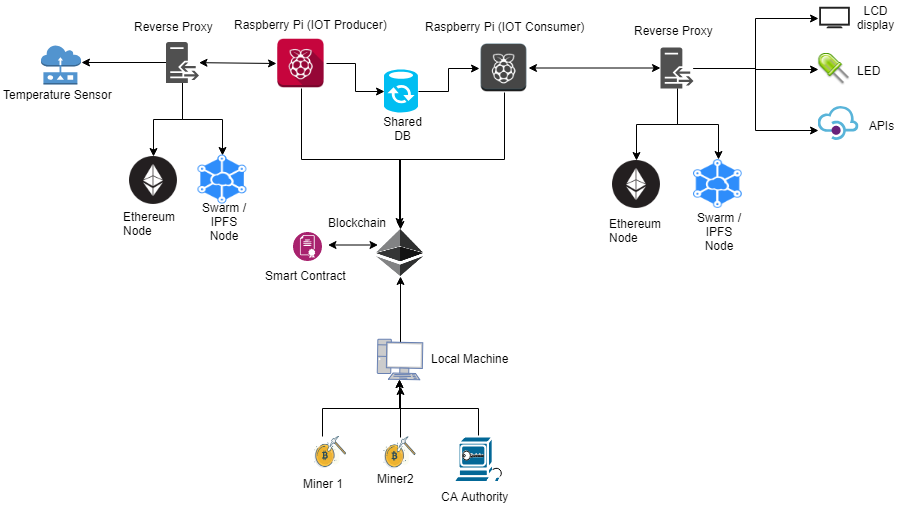
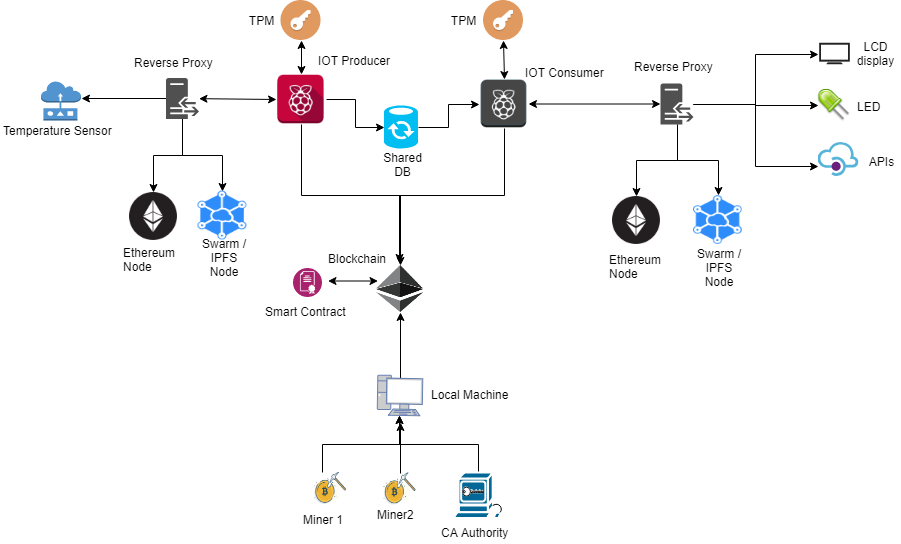
FINAL DRAFT V1

diff --git a/unlv-thesis.tex b/unlv-thesis.tex
@@ -126,7 +126,7 @@ In this thesis, we propose a method to collect sensor data from IoT devices and 
 %%% Here goes the acknowledgements if you have any - if none then delete or
 %%% comment out completely
 \begin{thesisacknowledgments}
-I would like to thank my advisor, Dr. Yoohwan Kim, for helping me identify areas of research and picking a Thesis topic that I could identify with. His continuous support and mentorship helped me implement this thesis and write a report that accurately covered everything I have worked on throughout my Master's program.
+I would like to thank my advisor, Dr. Yoohwan Kim, for helping me identify areas of research and picking a Thesis topic that I could identify with. His continuous support and mentorship helped me implement this thesis and write a report that accurately covered everything I have worked on throughout my Master's program. Over the course of this thesis, I have studied topics in IoT, Blockchains, Distributed Systems and cyber-security and I am grateful to have a mentor whose expertise encompasses all these domains and more.
 
 I would also like to acknowledge  Dr. Ju-Yeon Jo, Dr. Fatma Nasoz and Dr. SJ Kim for their warm support and for being part of my thesis committee. I am thankful to Dr. Ajoy Datta for helping me out whenever I required his assistance. I would also like to thank all my professors for imparting their knowledge through various courses in the fields of Machine Learning, Big Data, Databases, Blockchains and Algorithms.
 
@@ -799,7 +799,6 @@ The TPM used, Zymbit 4i, provides a public-private ECDSA key pair for signature 
 The storage medium (SD card is this case) is encrypted fully using LUKS \cite{cryptoeprint:2016:274} (Linux Unified Key Setup) and dm-crypt. The dm-crypt implementation uses a single Master key to encrypt/decrypt the file system contents shared by several users/ services. Moreover, this single master key needs to be changed frequently to avoid being cracked. This might not always be feasible. LUKS uses a hierarchical key management system to simplify managing keys for each service/user, providing them to services and revoking them when required. However, all these keys are encrypted using the single master key which must be stored on the device storage. Since the SD card can be removed and accessed easily, the master key is at risk of being stolen. The Hardware Security Module/ TPM overcomes this issue by locking the LUKS Master key using its private key stored within the hardware.
 
 \chapter{Proposed System} \label{chapter:proposed_system}
-
 \section{System Architecture} \label{ss:construct_architecture}
 The proposed system explained in \ref{fig:impldiagram_architechture} consists of number of applications running on a Local machine (miner nodes) whose sole purpose is to validate the transactions called by the set methods in the smart contract. One of the raspberry pis, called IoT Producer will be used to gather readings. The IoT producer will be running geth in light mode, swarm and ipfs applications to send data to rest of the network. The other raspberry pi, called IoT consumer will be used to get the readings from the network and use them to send out the data to other end-points such as APIs or LCD displays. The connections between the Producer and Consumer isn't rigid and each connect to the Ethereum, Swarm or IPFS network.
 
@@ -917,17 +916,39 @@ Private PKI are generally used to secure communications between local devices. W
 \subsubsection{Reverse Proxy}
 A reverse proxy is an intermediate server that intercepts all or most requests depending on their usage. These intercepted requests are then routed to the correct backend server. In our case, we run a reverse proxy on the IoT Consumer which uses certificates signed by our private PKI and allows HTTPS communication between our LCD node and the IoT Consumer. In this way, the LCD node is allowed to connect to the geth, swarm and ipfs endpoints and receive data securely. Nginx is a popular server option and can be configured to be used as a reverse proxy.
 
-\subsection{Hardware Security}
+\subsection{Hardware Security with TPM}
 A Trusted Privacy Module device, Zymbit 4i is used as a Hardware Security mechanism for the raspberry pi. It occupies the first 10 GPIO pins, including one 3.3V pin, 2 5V pins, 2 Ground pins, GP104 and the I2C bus. Before installing it, the I2C interfacing option is first activated on the Raspberry Pi. Finally, the required software modules needed for accessing the hardware keys stored on the TPM device are installed. Once this setup is completed, the root file system is encrypted using LUKS and dm-crypt using the private hardware key stored on the TPM.
+
+The first step in setting up the TPM is to pair \cite{TPMSetup} it with the Raspberry Pi. This pairing process uses a couple of unique features from both the host raspberry pi and the TPM and generates a unique Device ID that binds the TPM to the host. A linux systemd service \textbf{zkifc} runs on the host raspberry pi when properly paired. It is used to provide access to the keys stored on the TPM via I2C interface and all communications between the TPM and I2C are encrypted.
+
+Among other features, TPMs generally provide two important features that were extremely useful for this thesis.
+\subsection{Root File encryption with LUKS}
+The Root File System is not very secure in a Raspberry Pi system. The SD card can be easily imaged and sensitive data like shared keys can be stolen very easily. A viable solution is to encrypt the entire Root File System using Linux Unified Key Setup and dm-crypt.
+
+Figure \ref{fig:normal_fs} shows how easily the SD card can be read and senstive data can be stolen.
+
+\begin{figure}
+	\centering
+	\includegraphics[scale=1]{images/3_NormalFS.png}
+	\caption{Unencrypted File System}
+	\label{fig:normal_fs}
+\end{figure}
 
 \subsubsection{Boot Sequence of normal LUKS}
 \begin{enumerate}
-	\item Kernel initializes initramfs - A single cpio archive loaded into main memory during startup
+	\item Kernel initializes initramfs - A single archive loaded into main memory during startup
 	\item initramfs presents decryption key to LUKS
 	\item LUKS decrypts the root file system
 \end{enumerate}
 
-There are a couple of issues with the above procedure when Raspberry Pi is involved. First, there is no dedicated key-ring for storing cryptographic keys available in other Operating Systems. Secondly, the decryption key should not be stored in plain text on the removable SD card. To fix these issues, a TPM is used with LUKS for a more secure boot sequence.
+There are a couple of issues with the above procedure when Raspberry Pi is involved. First, there is no dedicated key-ring for storing cryptographic keys available in other Operating Systems. Secondly, the decryption key should not be stored in plain text on the removable SD card. To fix these issues, a TPM is used with LUKS \cite{TPMLUKS} for a more secure boot sequence. The Figure \ref{fig:encrypted_fs} shows how an encrypted file system works.
+
+\begin{figure}
+	\centering
+	\includegraphics[scale=0.5]{images/2_LUKSEncryptedFormat.png}
+	\caption{Encrypted File System with LUKS}
+	\label{fig:encrypted_fs}
+\end{figure}
 
 \subsubsection{Boot Sequence of LUKS with TPM}
 \begin{enumerate}
@@ -937,7 +958,16 @@ There are a couple of issues with the above procedure when Raspberry Pi is invol
 	\item Unlocked LUKS key is used to decrypt the root file system
 \end{enumerate}
 
+\subsubsection{Data Locker for keys}
+This feature allowed us to store all shared secret keys in encrypted format. The secret keys transferred over to the raspberry pis (process is explained in \ref{transfer_symm_keys}) are encrypted using the AES key hard coded to the TPM hardware. Zymbit 4i provides a python module called zymkey which accesses the TPM's AES key and encrypts/ decrypts the stored secret key and locks it to the raspberry pi. The locked key is then used for transferring encrypted data over the network.
 
+The TPM's AES key is used to encrypt the actual AES secret key and is explained in \ref{eq:encryptionofKeyZymbit}
+
+\begin{equation} \label{eq:encryptionofKeyZymbit}
+    zymbitProtectedKey =  E(K_{zymkey}, K_{aesSecret})
+\end{equation}
+
+We ensure that we never store the keys can never be accessed by unauthorized users even if the raspberry pi is stolen and the encrypted root file is successfully decrypted.
 
 \subsection{Software Security}
 The raspberry pi can be secured using a number of simple methods, each having an equally significant impact on improving the overall security of the device.
@@ -951,7 +981,7 @@ To further increase security, a new user is added and the default \textbf{pi} is
 \subsubsection{Installing Firewall}
 There is no firewall installed by default on the raspberry pi. Uncomplicated Firewall (ufw) can be setup very easily in any linux based OS and the raspbian OS is no different. All ports except for those we need such those for making remote procedure calls, networking between geth, swarm or ipfs nodes are selectively enabled.
 
-\subsubsection{Transferring Symmetric keys}
+\subsubsection{Transferring Symmetric keys} \label{transfer_symm_keys}
 Symmetric (Secret) keys must never be transferred in plain-text format over network or stored in the file system in plain text. The below sequence of steps are used to transfer AES keys over a network and lock them to the raspberry pi.
 
 \begin{enumerate}
@@ -1315,7 +1345,10 @@ Since python3 is used extensively, a couple of third party python modules are us
 		$Storage$ & web3 & To access smart contract functions or get balances \\ \hline
 		$Storage$ & ipfsapi & To store and retrieve data from IPFS \\ \hline
 		$IoT$ & AdafruitDHT & Get temperature, humidity from DHT \\ \hline
+		$IoT$ & Rpi.GPIO & Control GPIO pins connected to RGB LED \\ \hline
+		$IoT$ & I2C LCD driver & Display data on LCD via I2C interface \\ \hline
 		$Cryptography$ & pycryptodomex & Implementations of Cryptography algorithms \\ \hline
+		$Cryptography$ & zymkey & Encrypt, Decrypt, Sign and Verify data using TPM \\ \hline
 	\end{tabular}
 \end{table}
 
@@ -1597,63 +1630,86 @@ Figure \ref{fig:graph_eth_ipfs_readvwrite_wencr} shows the performance differenc
 \end{figure}
 \newpage
 
-\subsection{Comparisons between different methods}
+\subsection{Performance Comparisons}
 Reading or Writing data to the system scales linearly over time due to the fact that both Swarm and IPFS use Distributed Hash Tables to store and read data. Overall, reading and writing to Swarm or IPFS took roughly the same time. Generally write speeds are slower compared to read speeds. These tests were conducted over a network and latencies from network read and writes overshadowed any difference between actual read and writes to these storage systems.
 
 In this section, we compare the read and write times for different types of storage systems we have used including those with and without encryption, decryption and signature verification.
 
-However, real time IoT devices and network send larger data packets with more frequency and for better performance, a faster machine with better CPU and RAM must be used.
-
 Table \ref{Results for Write tests} shows different metrics captured during the course of Write tests.
 
 \begin{table}[!htbp]
-	\renewcommand{\arraystretch}{2}
+	\renewcommand{\arraystretch}{1.3}
 	\caption{Results for Write tests for 5000 txns}
 	\label{Results for Write tests}
 	\centering
-	\scalebox{0.9}{
-	\begin{tabular}{|c||c|c|c|c|c|c|}
-		\hline
-		\bfseries Test & \bfseries Time Taken & \bfseries TPS  & \bfseries Cost in Eth & \bfseries Cost per txn & \bfseries CPU Usage & \bfseries RAM Usage\\
-		\hline\hline
-		$Swarm$ & 149 & 33.557 & -- & -- & -- & -- \\ \hline
-		$Swarm + Encr$ & 150 & 33.333 & -- & -- & -- & -- \\ \hline
-		$IPFS$ & 2755 & 1.813 & -- & -- & -- & -- \\ \hline
-		$IPFS + Encr$ & 3777 & 1.323 & -- & -- & -- & -- \\ \hline
-		$Eth + Swarm$ & 920 & 5.434 & 0.469 & 0.000093975  & -- & --\\ \hline
-		$Eth + IPFS$ & 4039 & 1.237 & 0.469 & 0.000093975  & -- & --\\ \hline
-		$Eth + Swarm + Encr$ & 895 & 5.586 & 0.469 & 0.000093975 & -- & --\\ \hline
-		$Eth + IPFS + Encr$ & 5695 & 0.877 & 0.469 & 0.000093975 & -- & --\\ \hline
-	\end{tabular}}
+	\scalebox{0.75}{
+\begin{tabular}{|l|l|l|l|l|l|l|l|l|} 
+\hline
+\textbf{Test}            & \textbf{Time Taken} & \textbf{TPS} & \textbf{Cost}  & \textbf{Cost per txn} & \multicolumn{2}{l|}{\textbf{Avg CPU Usage (\%)}} & \multicolumn{2}{l|}{\textbf{Avg RAM Usage (\%)}}  \\ 
+\hline
+                         & \textbf{(seconds)}  &              & \textbf{(Eth)} &                       & \textbf{Geth} & \textbf{Swarm/IPFS}              & \textbf{Geth} & \textbf{Swarm/IPFS}               \\ 
+\hline
+\hline
+Swarm                    & 149                 & 33.55704698  & NA             & NA                    & 0.3           & 4.3                              & 7.2           & 52                                \\ 
+\hline
+Swarm + Encryption       & 150                 & 33.33333333  & NA             & NA                    & 0.6           & 5.7                              & 15.2          & 53.7                              \\ 
+\hline
+IPFS                     & 2755                & 1.814882033  & NA             & NA                    & NA            & 90.1                             & NA            & 5.6                               \\ 
+\hline
+IPFS + Encryption        & 3777                & 1.323801959  & NA             & NA                    & NA            & 91.4                             & NA            & 5.8                               \\ 
+\hline
+Eth + Swarm              & 920                 & 5.434782609  & 0.469875       & 0.000093975           & 43.7          & 5                                & 14            & 51.6                              \\ 
+\hline
+Eth + IPFS               & 4039                & 1.237930181  & 0.469875       & 0.000093975           & 14.2          & 76.2                             & 20.7          & 6.6                               \\ 
+\hline
+Eth + Swarm + Encryption & 895                 & 5.586592179  & 0.469875       & 0.000093975           & 50.2          & 6.6                              & 22.2          & 28.1                              \\ 
+\hline
+Eth + IPFS + Encryption  & 5695                & 0.877963126  & 0.469875       & 0.000093975           & 13.2          & 86.8                             & 20.3          & 6.7                               \\
+\hline
+\end{tabular}}
 \end{table}
 
 \newpage
 Table \ref{Results for Read tests} shows different metrics captured during the course of Read tests.
 \begin{table}[!htbp]
-	\renewcommand{\arraystretch}{2}
+	\renewcommand{\arraystretch}{1.3}
 	\caption{Results for Read tests for 5000 txns}
 	\label{Results for Read tests}
 	\centering
 	\scalebox{0.9}{
-	\begin{tabular}{|c||c|c|c|c|}
-		\hline
-		\bfseries Test & \bfseries Time Taken & \bfseries TPS  & \bfseries CPU Usage & \bfseries RAM Usage\\
-		\hline\hline
-		$Swarm$ & 151 & 33.112 & -- & --  \\ \hline
-		$Swarm + Decr$ & 156 & 32.051 & -- & -- \\ \hline
-		$IPFS$ & 379 & 13.192 & -- & --  \\ \hline
-		$IPFS + Decr$ & 426 & 11.737 & -- & --  \\ \hline
-		$Eth + Swarm$ & 556 & 8.992 & -- & --  \\ \hline
-		$Eth + IPFS$ & 456 & 10.964 & -- & --  \\ \hline
-		$Eth + Swarm + Decr$ & 622 & 8.038 & -- & --\\ \hline
-		$Eth + IPFS + Decr$ & 783 & 6.385 & -- & -- \\ \hline
-	\end{tabular}}
+\begin{tabular}{|l|l|l|l|l|l|l|} 
+\hline
+\textbf{Test}            & \textbf{Time Taken} & \textbf{TPS} & \multicolumn{2}{l|}{\textbf{Avg CPU Usage (\%)}} & \multicolumn{2}{l|}{\textbf{Avg RAM Usage (\%)}}  \\ 
+\hline
+                         & \textbf{(seconds)}  &              & \textbf{Geth} & \textbf{Swarm/IPFS}              & \textbf{Geth} & \textbf{Swarm/IPFS}               \\ 
+\hline
+\hline
+Swarm                    & 151                 & 33.11258278  & 14.1          & 26                               & 10.5          & 11                                \\ 
+\hline
+Swarm + Decryption       & 156                 & 32.05128205  & 15.1          & 30.3                             & 13.9          & 31.8                              \\ 
+\hline
+IPFS                     & 379                 & 13.19261214  & NA            & 23.9                             & NA            & 5.7                               \\ 
+\hline
+IPFS + Decryption        & 426                 & 11.7370892   & NA            & 26.7                             & NA            & 5.8                               \\ 
+\hline
+Eth + Swarm              & 556                 & 8.992805755  & 26.3          & 6.6                              & 16.7          & 10.1                              \\ 
+\hline
+Eth + IPFS               & 456                 & 10.96491228  & 31.1          & 5.9                              & 19.1          & 6.8                               \\ 
+\hline
+Eth + Swarm + Decryption & 622                 & 8.038585209  & 27.7          & 6.8                              & 18.3          & 10.7                              \\ 
+\hline
+Eth + IPFS + Decryption  & 783                 & 6.385696041  & 34.2          & 5.7                              & 20.2          & 6.5                               \\
+\hline
+\end{tabular}
+	}
 \end{table}
 
 \subsubsection{Performance difference between Swarm and IPFS}
 Using the full version of our proposed system (Ethereum Smart Contract + Swarm) , we have achieved approximately 5 transactions per second for write and 9 for read. This is well within reach of our intended use of 1 transaction per minute per device. We will be able to use this system comfortably for systems where transactions are sent in low to medium frequency.
 
 Using IPFS instead of Swarm lead to significantly lower performance due to the fact that IPFS CPU usage on the raspberry pi during write test was incredibly high compared to Swarm.
+
+We include cost incurred for the transactions in Ethereum in the tables \ref{fig:graph_perf_cost_read} and \ref{fig:graph_perf_cost_write}. However, this metric doesn't matter directly as we are using a private ethereum network with no intrinsic money value. However, these metrics help us indirectly. First, since we do not use Arrays, either static or dynamic in this thesis, the cost incurred doesn't increase over time and stays the same throughout our tests. Secondly, we can use the cost measures to easily identify if any unauthorized users have been granted access to the ethereum network.
 
 \subsubsection{Performance Cost for Write}
 Storing only Swarm data was very fast compared to using both the Ethereum Blockchain and Swarm. Adding Encryption did not affect the performance very much. The Figure \ref{fig:graph_perf_cost_write} shows the performance cost of using just Swarm, IPFS, both Ethereum and Swarm and both Ethereum and IPFS to store the test data set.
@@ -1677,7 +1733,6 @@ Reading only Swarm data was very extremely fast compared to using the combinatio
 \end{figure}
 
 \chapter{Conclusion and Future Work} \label{chapter:conclusion}
-
 \section{Conclusion}
 We have successfully setup a system where Ethereum is used to register devices and store references to data stored in IPFS or Swarm. Since Ethereum requires registration before data can be saved to it and Swarm/IPFS data is stored in encrypted format, we do not even need a private network to store data and can instead use the main networks of Ethereum, IPFS or Swarm.
 
@@ -1686,8 +1741,6 @@ Performance wise, a combination of Ethereum (to maintain sequence of records) an
 The same method of data storage can be extended to many use-cases such as storing records in fields such as Government, Education, Health care etc securely and also increase storage capacity as needed without having to stop the services even momentarily for maintenance.
 
 Currently though, both Swarm and IPFS are not ready for real-time use yet and are still in the process of developing their respective incentivization layers \cite{ethersphere2016sw3} like Ethereum. Additionally, they are exploring methods to implement Encryption for data stored in the respective systems and would further make the process of setting up and using them easy and secure. Swarm is yet to implement a monitoring method to view networking traffic, status of peers etc while Ethereum and IPFS have good monitoring services to keep track of the network performance.
-
-\section{Challenges Faced}
 
 \section{Future Work}
 The next areas of focus would be to enhance the quality and types of Sensor data stored and retrieved, secure the IoT devices even further and develop a faster Proof of Work algorithm to validate transactions on the Ethereum blockchain. 
@@ -1698,7 +1751,7 @@ Another area of improvement from a blockchain perspective is to use a permission
 
 A fast Proof of Work algorithm could be developed as an aim with the express purpose of developing an algorithm for achieving Consensus which is more suitable for IoT data than that is used currently to approve crypto-currency transactions. This optimization would make the algorithm much faster as the complexity of the smart contract increases. Aside from using Quorum, tests can be repeated on Ethereum itself when the Proof of Stake protocol goes live with the Casper protocol.
 
-IoT devices are usually under powered due to power usage limitations. Using resource heavy encryption like RSA and AES (even with hardware acceleration) on these edge devices is counter-intuitive to the idea of low power devices dedicated for sensing and collecting data. Modern encryption methods like Adiantum \cite{DBLP:journals/tosc/CrowleyB18} are tailored for low powered edge nodes and are slowly gaining momentum. Early tests with this algorithm has been promising in terms of resource utilization and speeds.
+IoT devices are usually under powered due to power usage limitations. Using resource heavy encryption like RSA and AES (even with hardware acceleration) on these edge devices is counter-intuitive to the idea of using low power devices dedicated for sensing and collecting data. Modern encryption methods like Adiantum \cite{DBLP:journals/tosc/CrowleyB18} are tailored for low powered edge nodes and are slowly gaining momentum. Early tests with this algorithm has been promising in terms of resource utilization and speeds.
 
 %%%
 %%% The bibliography - you can change the alpha to suit your style if you don't like it is it is.
